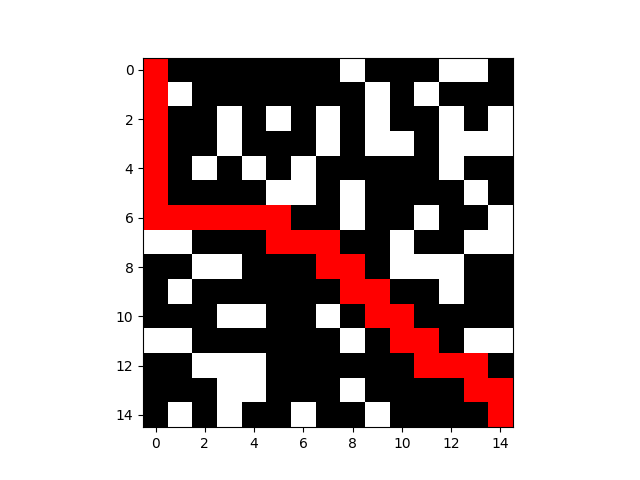
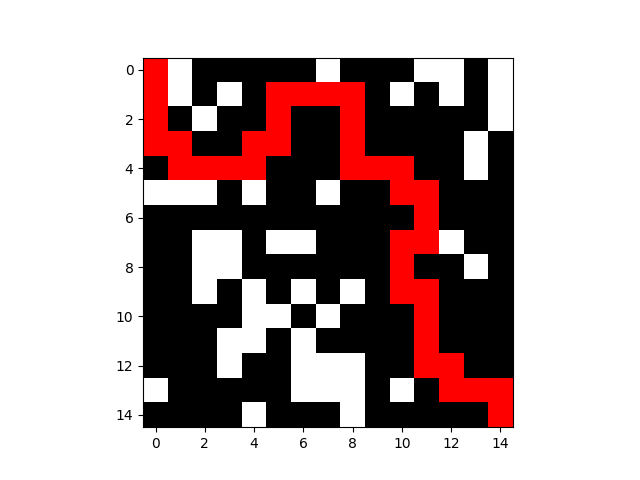
project

Changed region(s): [[0.2188, 0.125, 0.8125, 0.9062], [0.6875, 0.6562, 0.8125, 0.8438], [0.25, 0.125, 0.3125, 0.1875]]

diff --git a/maze_solver/maze.py b/maze_solver/maze.py
@@ -32,7 +32,7 @@ class Maze:
         with open(csv_file, encoding='utf-8') as file:
             self.matrix = np.array(
                 [
-                    [info.strip() == "0" for info in line.split(",") if info.strip()]
+                    [info.strip() == "1" for info in line.split(",")]
                     for line in file
                 ], dtype=bool
             )
@@ -78,8 +78,8 @@ class Maze:
         Najde nejkratší cestu z levého horního rohu (0, 0) do pravého dolního rohu (n - 1, m - 1).
         :return: Seznam indexů průchozích vrcholů tvořících nejkratší cestu, nebo None, pokud cesta neexistuje
         """
-        if (0, 0) not in self.passable_cells and (len(self.matrix) - 1,
-                                                  len(self.matrix) - 1) not in self.passable_cells:
+        if (0, 0) not in self.passable_cells or (len(self.matrix) - 1,
+                                                  len(self.matrix[0]) - 1) not in self.passable_cells:
             return None
 
         count_vertex = len(self.passable_cells)